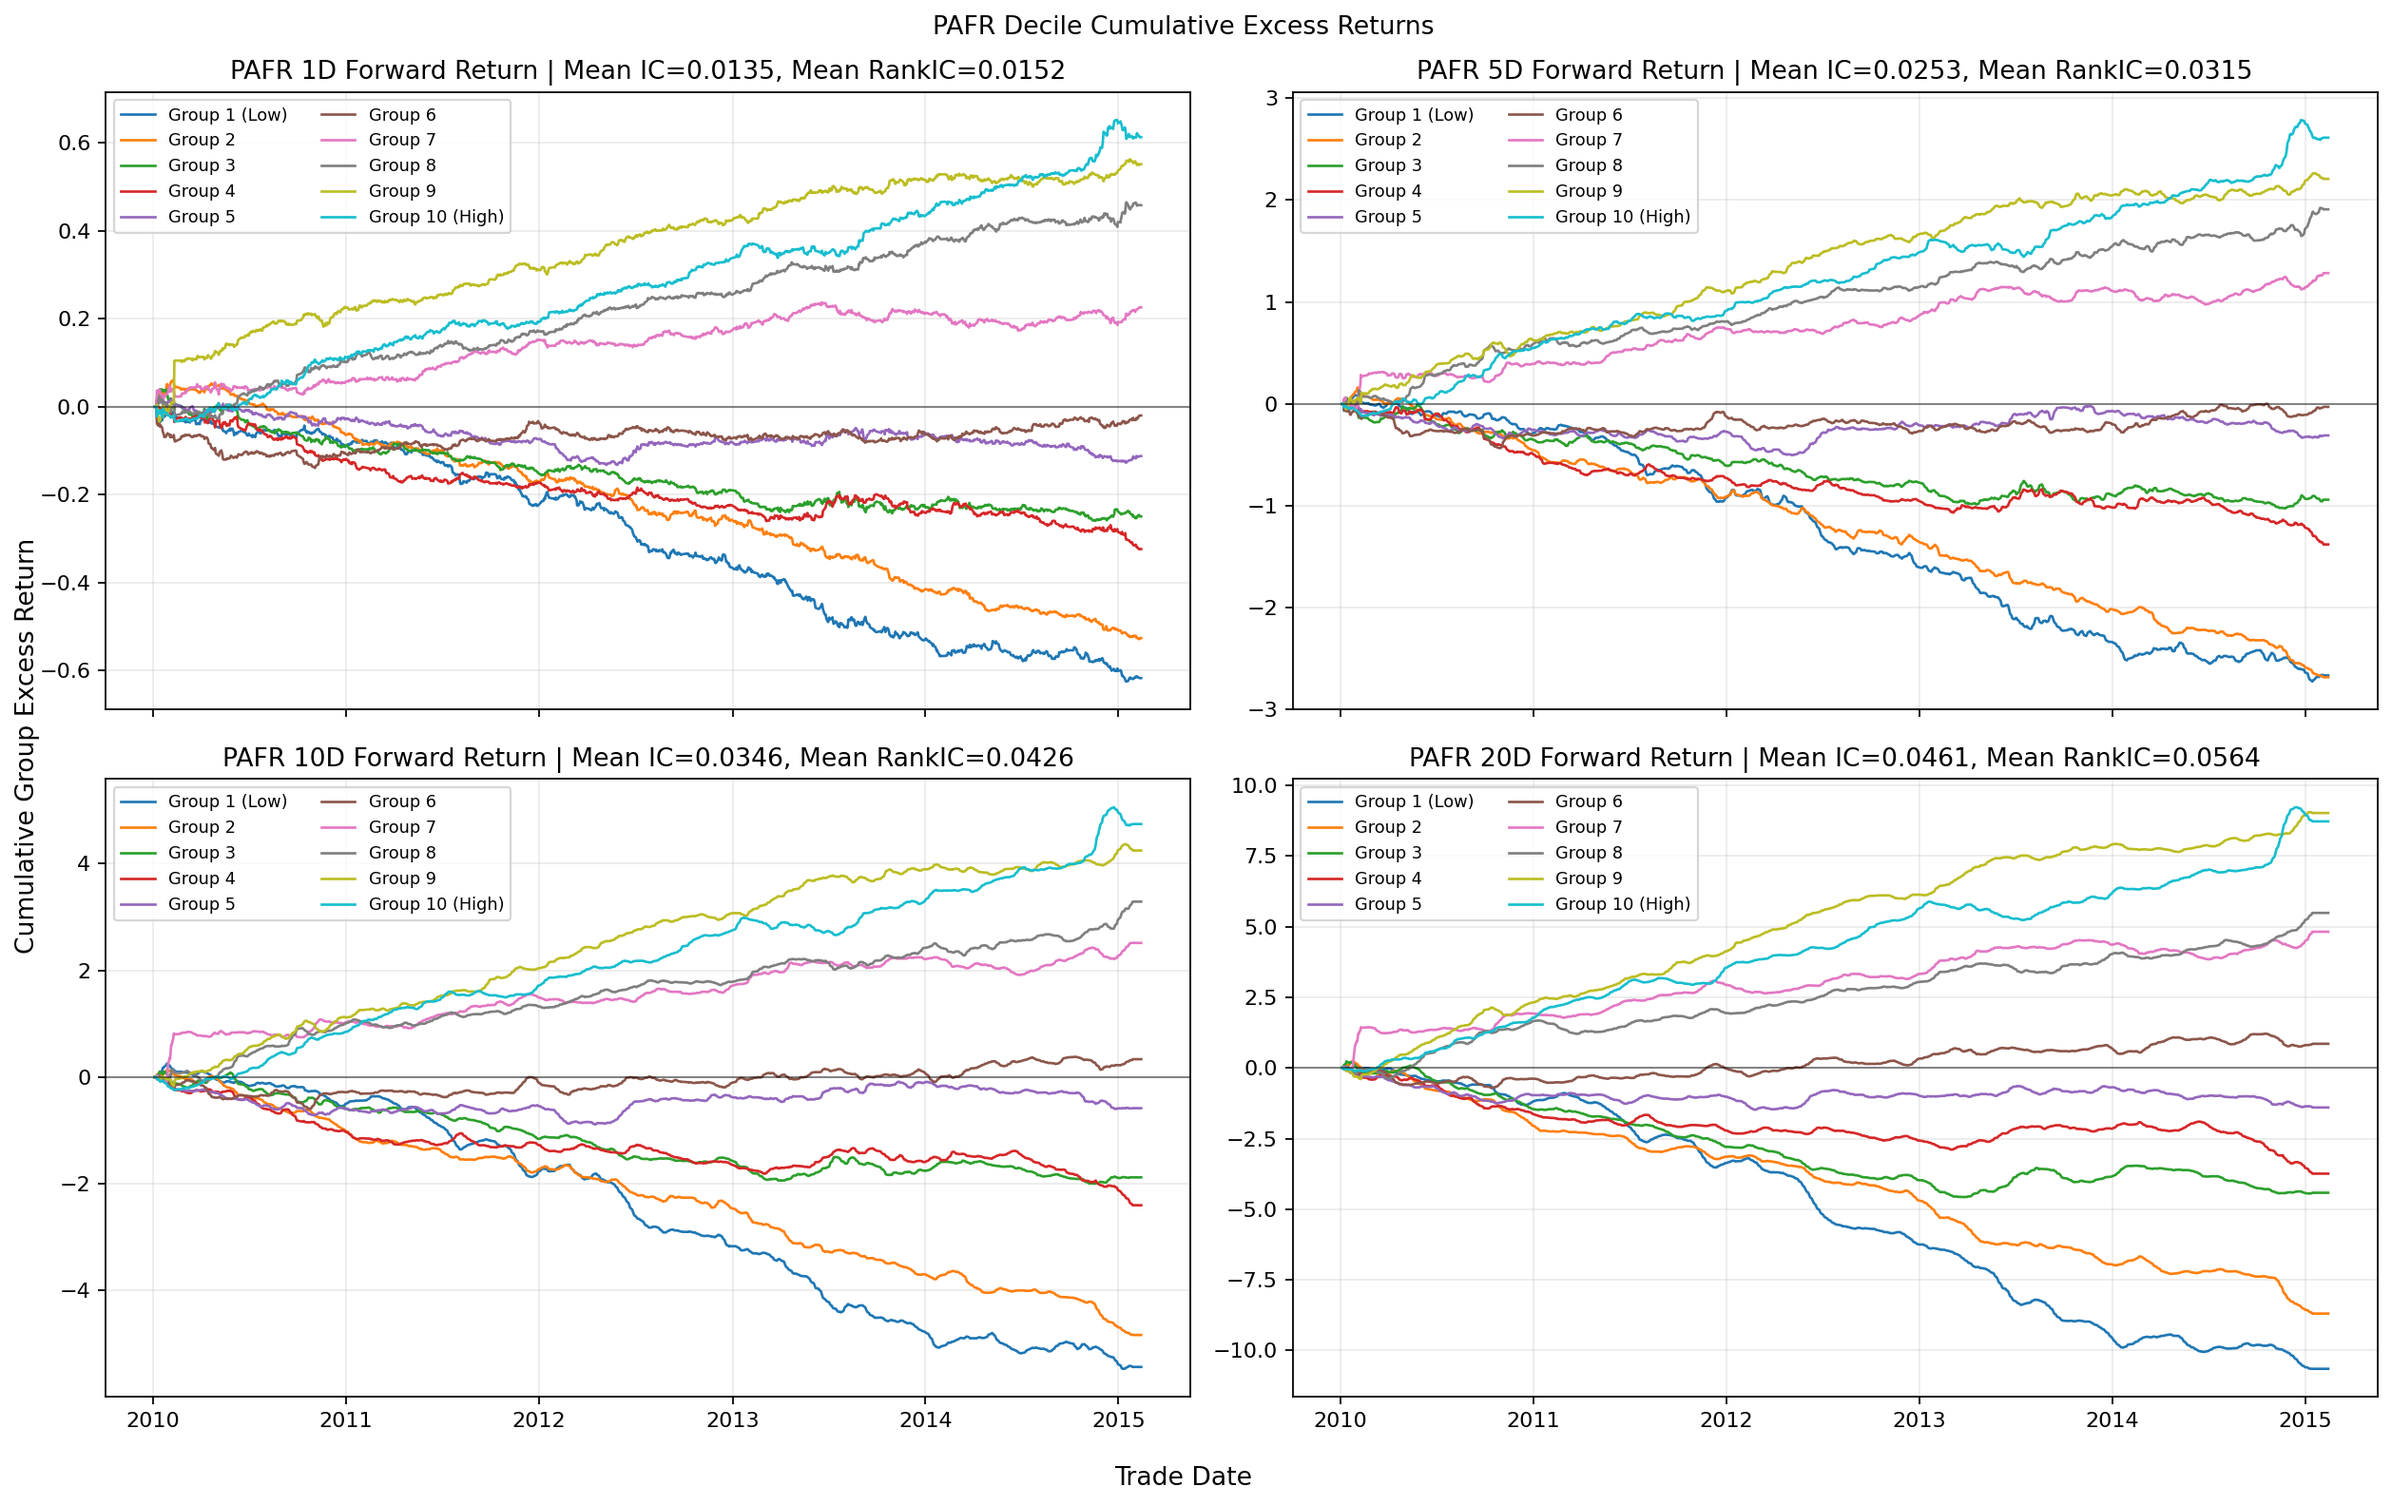
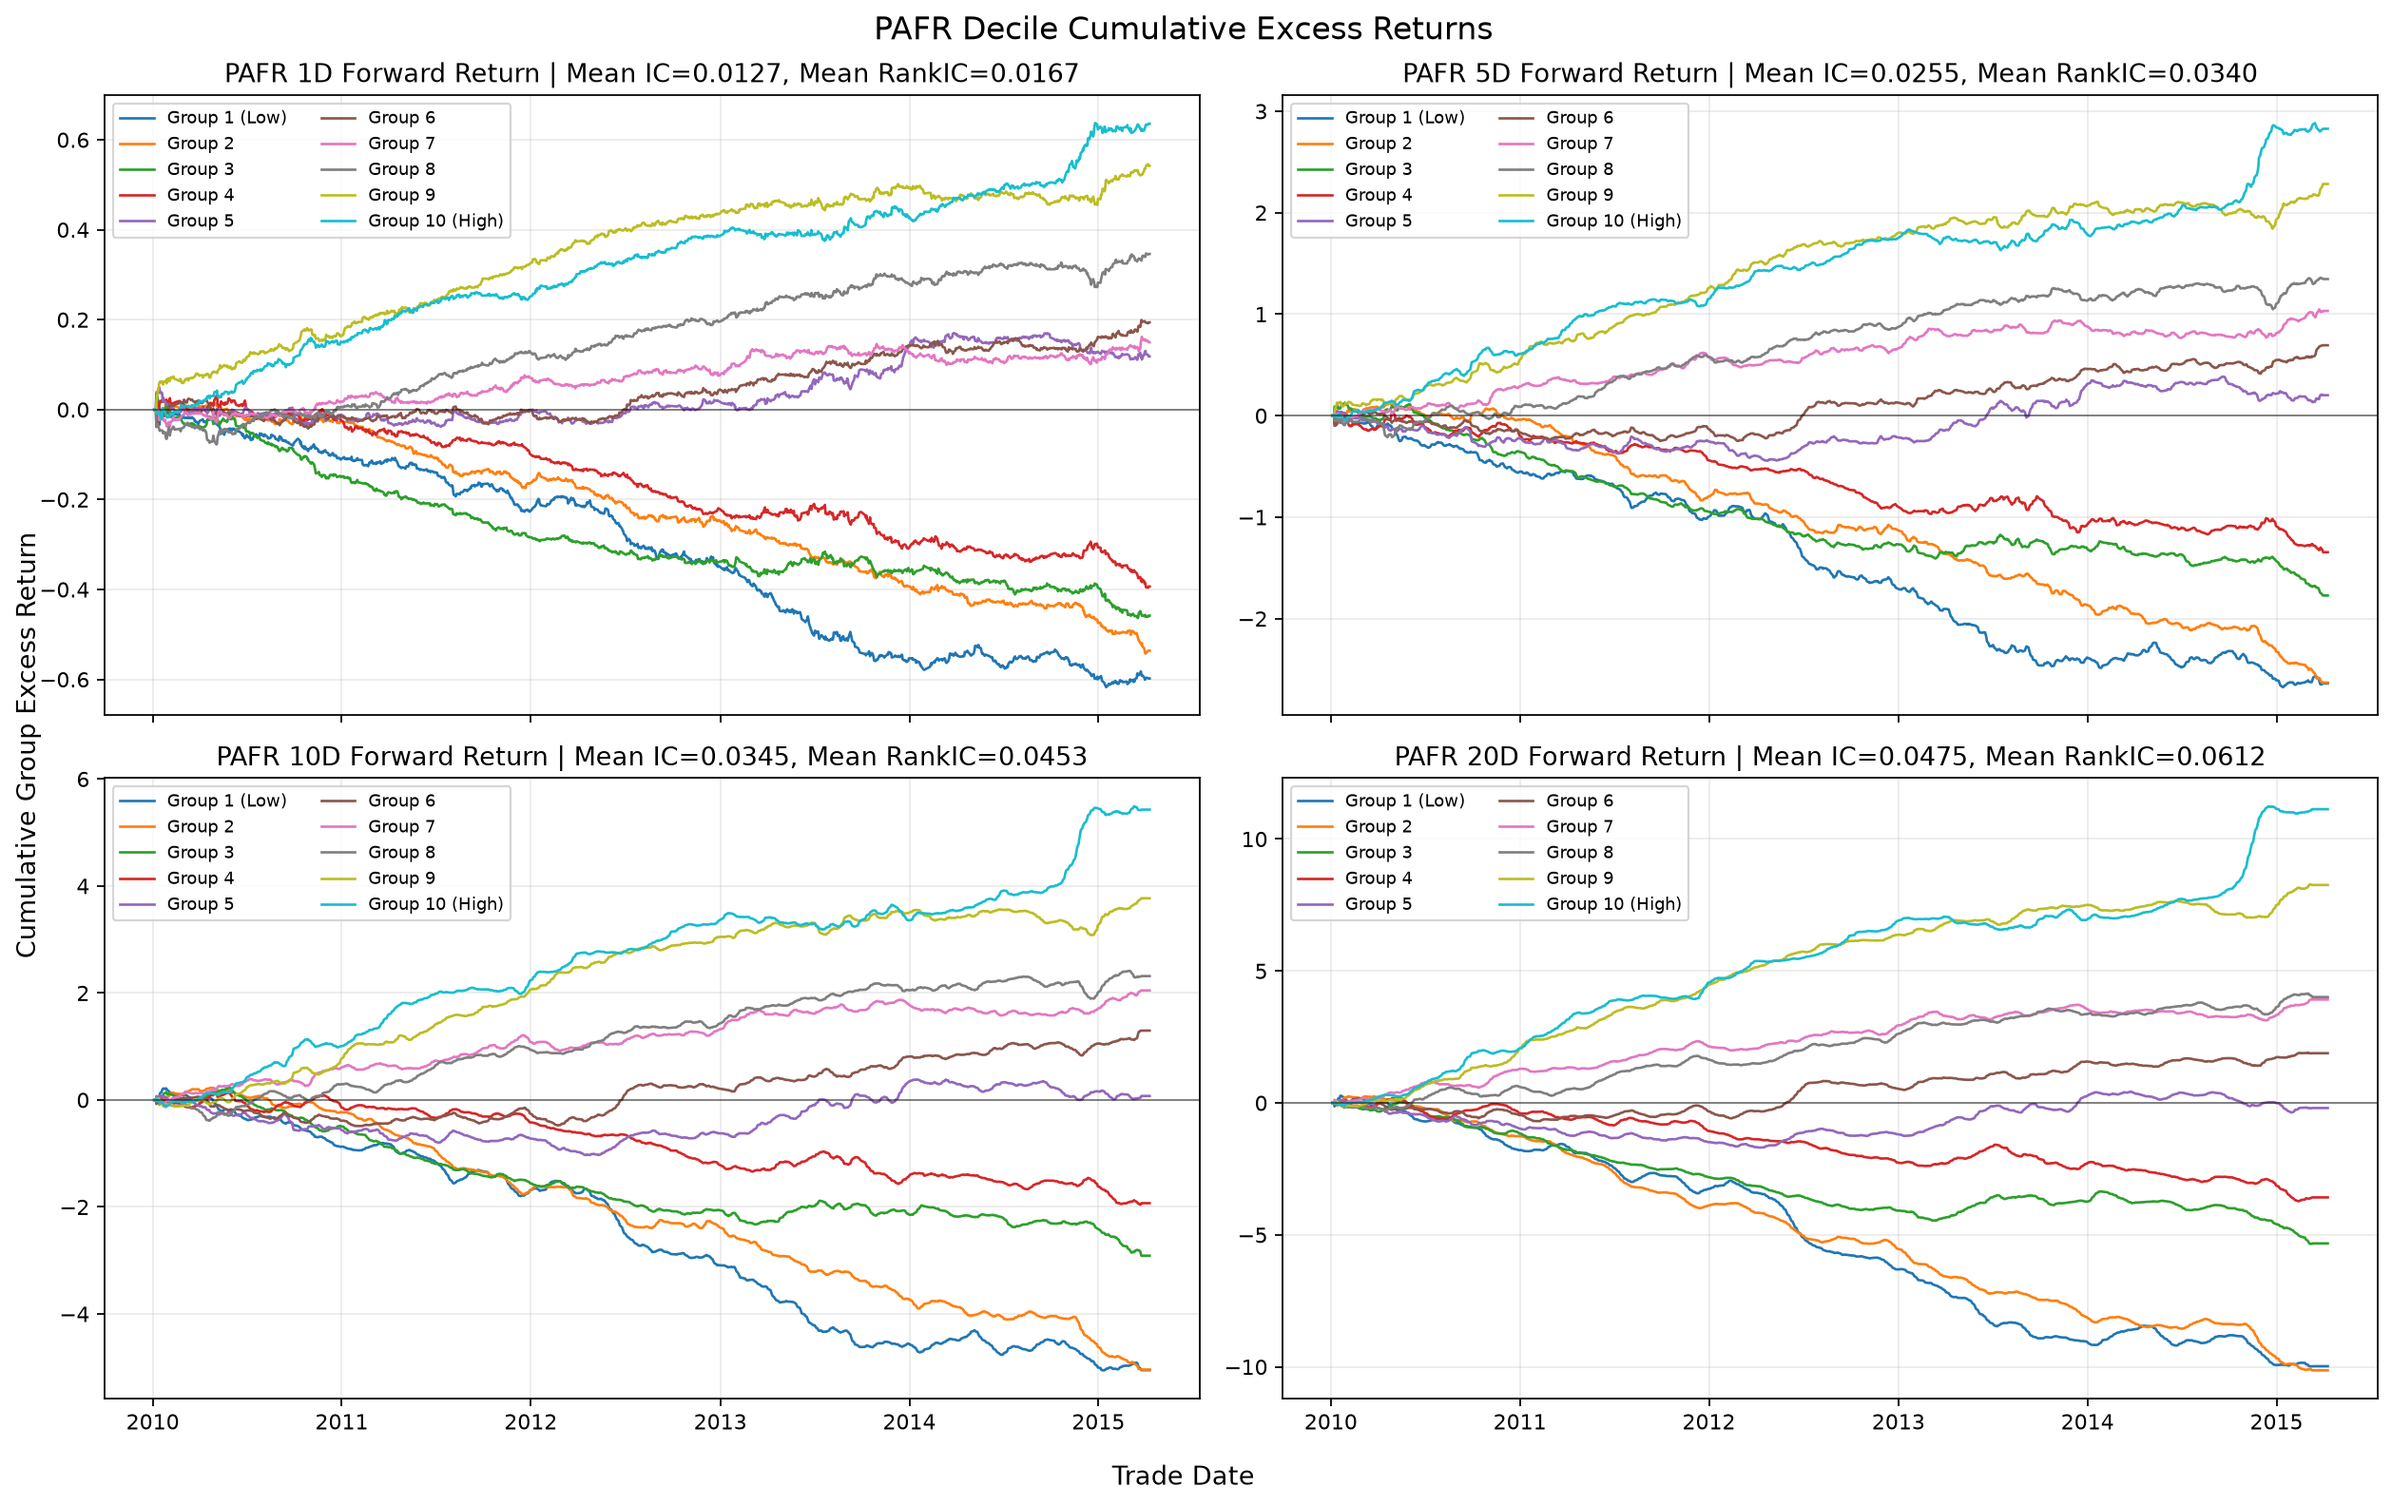
v2

diff --git a/v2/UpdateData/daily_update.py b/v2/UpdateData/daily_update.py
@@ -364,7 +364,7 @@ def update_history_l2(
 if __name__ == "__main__":
     update_history(
         root=ROOT,
-        start_date="2010-01-01",
+        start_date="2015-09-14",
         end_date="2026-07-31",
     )
     # update_history_l2(
